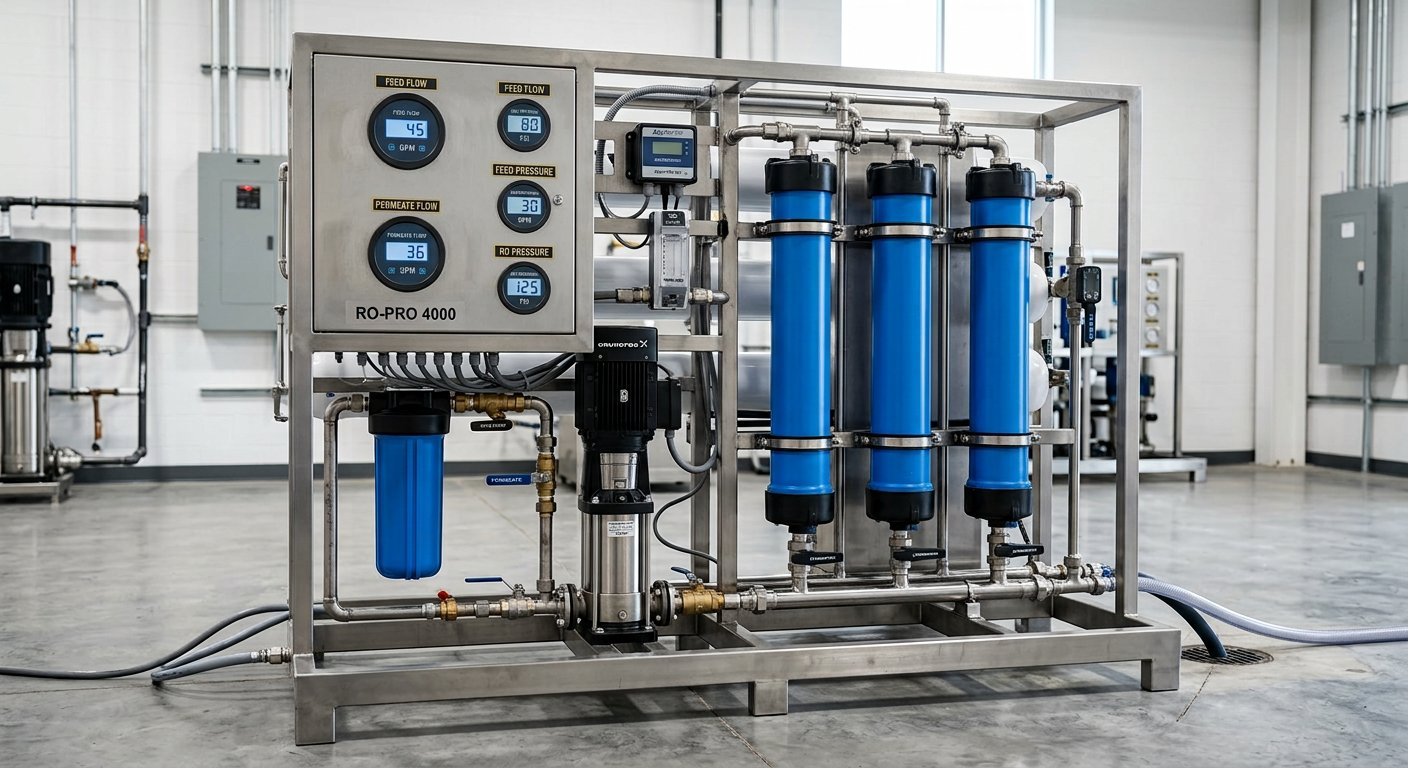
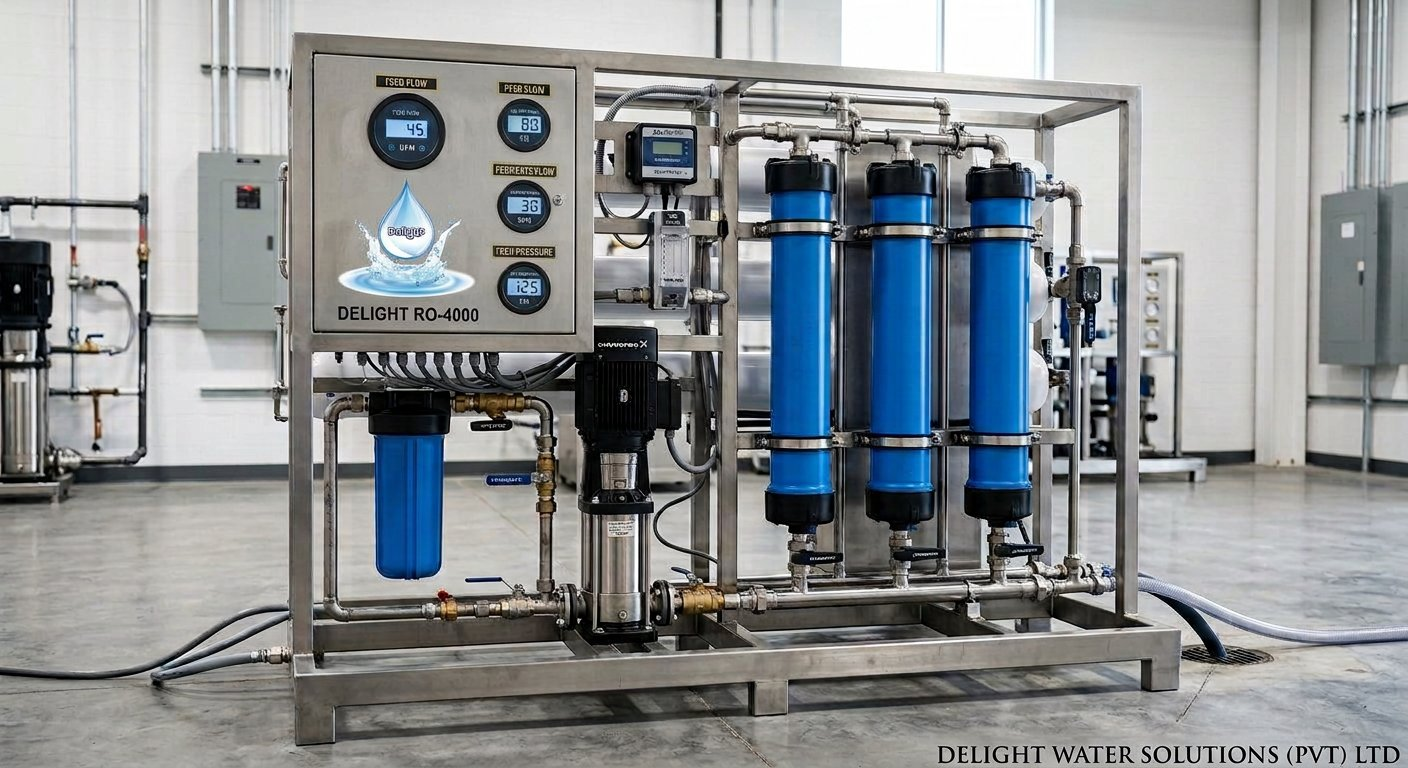
🏷 Add Delight Water Solutions (PVT) Ltd branding to all product images
All 7 product/hero images now feature the company logo and
'Delight Water Solutions (PVT) Ltd' brand watermark in bottom-right corner:
- hero-water-treatment.jpg
- industrial-ro-system.jpg
- commercial-ro-plant.jpg
- domestic-ro-purifier.jpg
- industrial-ro-filter.jpg (replaced old .webp)
- water-treatment-equipment.jpg
- water-filtration-media.jpg

diff --git a/index.html b/index.html
@@ -377,7 +377,7 @@
 
                 <div class="product-showcase-card">
                     <div class="product-image">
-                        <img src="assets/images/industrial-ro-water-filter-500x500.webp" alt="Industrial RO Water Filter — high-performance reverse osmosis filter system" loading="lazy">
+                        <img src="assets/images/industrial-ro-filter.jpg" alt="Industrial RO Water Filter — high-performance reverse osmosis filter system" loading="lazy">
                         <div class="product-badge">Professional</div>
                         <div class="product-overlay">
                             <div class="product-info">
